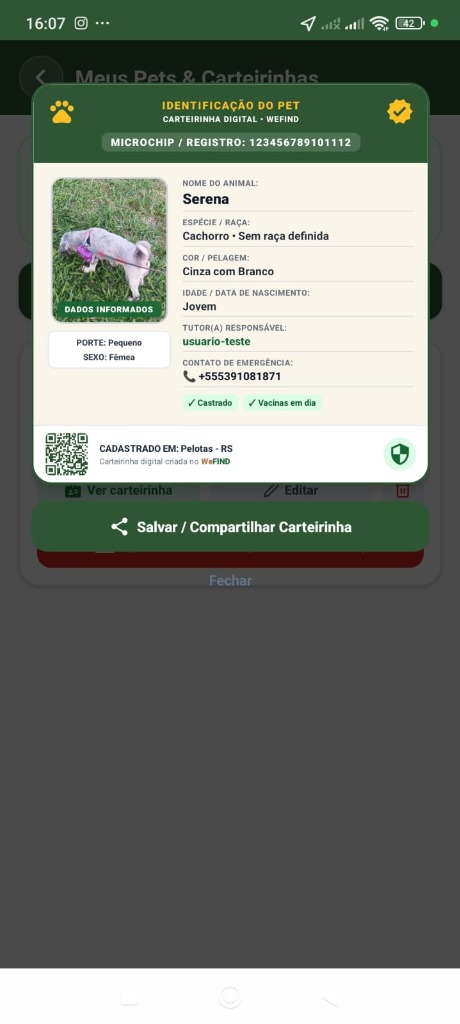
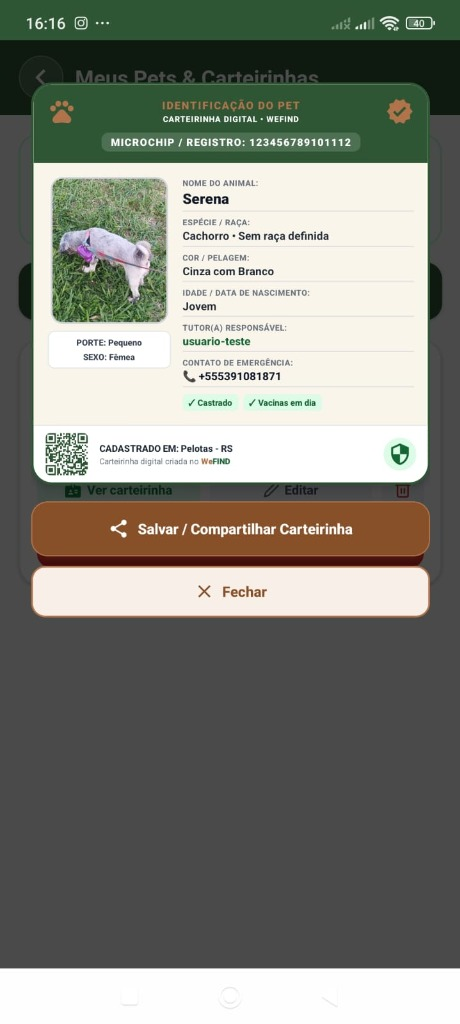
fix: atualizar layout da Carteirinha Digital (RG Pet) com novo botao de acao e fechar

diff --git a/src/components/PetRgCard.jsx b/src/components/PetRgCard.jsx
@@ -70,12 +70,12 @@ const PetRgCard = ({ pet, userProfile, onClose }) => {
         {/* Cabeçalho da carteirinha */}
         <View style={styles.rgHeader}>
           <View style={styles.brasaoRow}>
-            <MaterialIcons name="pets" size={24} color="#FBBF24" />
+            <MaterialIcons name="pets" size={24} color={COLORS.secondary} />
             <View style={{ alignItems: 'center' }}>
               <Text style={styles.rgHeaderCountry}>IDENTIFICAÇÃO DO PET</Text>
               <Text style={styles.rgHeaderApp}>CARTEIRINHA DIGITAL • WEFIND</Text>
             </View>
-            <MaterialIcons name="verified" size={24} color="#FBBF24" />
+            <MaterialIcons name="verified" size={24} color={COLORS.secondary} />
           </View>
           <View style={styles.rgaNumberBadge}>
             <Text style={styles.rgaNumberText}>MICROCHIP / REGISTRO: {petIdentifier}</Text>
@@ -94,10 +94,6 @@ const PetRgCard = ({ pet, userProfile, onClose }) => {
                   <MaterialIcons name="pets" size={36} color="#9CA3AF" />
                 </View>
               )}
-              {/* Carimbo Digital */}
-              <View style={styles.stampBadge}>
-                <Text style={styles.stampBadgeText}>DADOS INFORMADOS</Text>
-              </View>
             </View>
 
             {/* Microchip / Porte */}
@@ -174,7 +170,7 @@ const PetRgCard = ({ pet, userProfile, onClose }) => {
       {/* Botões de Ação */}
       <View style={styles.actionButtonsRow}>
         <TouchableOpacity
-          style={[styles.shareBtn, { backgroundColor: COLORS.primary }]}
+          style={styles.shareBtn}
           onPress={handleShareRg}
           disabled={sharing}
           activeOpacity={0.85}
@@ -183,14 +179,21 @@ const PetRgCard = ({ pet, userProfile, onClose }) => {
             <ActivityIndicator size="small" color="#FFFFFF" />
           ) : (
             <>
-              <MaterialIcons name="share" size={18} color="#FFFFFF" style={{ marginRight: 6 }} />
+              <MaterialIcons name="share" size={18} color="#FFFFFF" style={{ marginRight: 7 }} />
               <Text style={styles.shareBtnText}>Salvar / Compartilhar Carteirinha</Text>
             </>
           )}
         </TouchableOpacity>
 
         {typeof onClose === 'function' && (
-          <TouchableOpacity style={styles.closeModalBtn} onPress={onClose} activeOpacity={0.7}>
+          <TouchableOpacity
+            style={styles.closeModalBtn}
+            onPress={onClose}
+            activeOpacity={0.8}
+            accessibilityRole="button"
+            accessibilityLabel="Fechar carteirinha digital"
+          >
+            <MaterialIcons name="close" size={18} color={COLORS.secondaryDark} />
             <Text style={styles.closeModalBtnText}>Fechar</Text>
           </TouchableOpacity>
         )}
@@ -230,7 +233,7 @@ const styles = StyleSheet.create({
     width: '100%',
   },
   rgHeaderCountry: {
-    color: '#FBBF24',
+    color: COLORS.secondary,
     fontSize: 10,
     fontWeight: '900',
     letterSpacing: 1,
@@ -409,7 +412,15 @@ const styles = StyleSheet.create({
     alignItems: 'center',
     justifyContent: 'center',
     borderRadius: 14,
-    paddingVertical: 12,
+    paddingVertical: 13,
+    backgroundColor: COLORS.secondaryDark,
+    borderWidth: 1,
+    borderColor: COLORS.secondary,
+    shadowColor: COLORS.secondaryDark,
+    shadowOffset: { width: 0, height: 3 },
+    shadowOpacity: 0.22,
+    shadowRadius: 5,
+    elevation: 3,
   },
   shareBtnText: {
     color: '#FFFFFF',
@@ -417,13 +428,20 @@ const styles = StyleSheet.create({
     fontWeight: '800',
   },
   closeModalBtn: {
+    flexDirection: 'row',
     alignItems: 'center',
-    paddingVertical: 8,
+    justifyContent: 'center',
+    gap: 6,
+    borderWidth: 1.5,
+    borderColor: COLORS.secondary,
+    backgroundColor: COLORS.secondaryLight,
+    borderRadius: 12,
+    paddingVertical: 11,
   },
   closeModalBtnText: {
-    fontSize: 13,
-    fontWeight: '600',
-    color: '#64748B',
+    fontSize: 13.5,
+    fontWeight: '800',
+    color: COLORS.secondaryDark,
   },
 });
 
